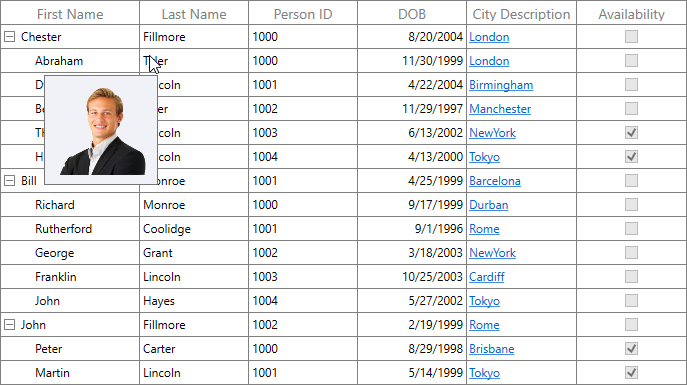
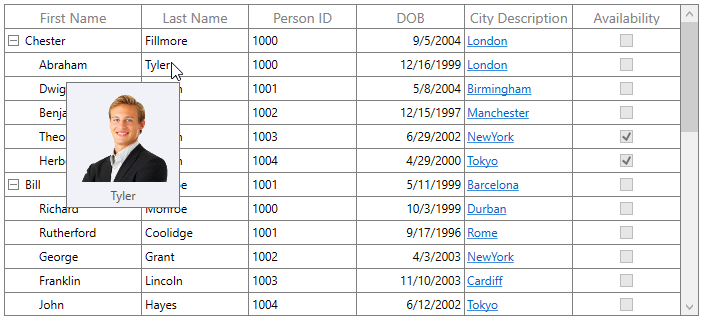
WPF-39899_Tooltip changes are included.

diff --git a/wpf/SfTreeGrid/Interactive-Feature.md b/wpf/SfTreeGrid/Interactive-Feature.md
@@ -10,7 +10,12 @@ documentation: ug
 # Interactive Feature
 
 ## ToolTip
-ToolTip provides the support to show the pop-up window that displays the information when the mouse hovers in cells of SfTreeGrid. You can enable the ToolTip for the TreeGridCell by setting the [SfTreeGrid.ShowToolTip](https://help.syncfusion.com/cr/cref_files/wpf/sfdatagrid/Syncfusion.SfGrid.WPF~Syncfusion.UI.Xaml.Grid.GridColumnBase~ShowToolTipProperty.html) as `true`.
+
+SfTreeGrid provides support to display tooltip for record and header cells when hover the cells.
+
+### Record Cell ToopTip
+
+You can enable or disable default tooltip for record cells by setting [SfTreeGrid.ShowToolTip](https://help.syncfusion.com/cr/cref_files/wpf/sfdatagrid/Syncfusion.SfGrid.WPF~Syncfusion.UI.Xaml.Grid.GridColumnBase~ShowToolTipProperty.html) as `true`.
 
 {% tabs %}
 {% highlight xaml %}
@@ -50,6 +55,8 @@ N> It takes higher priority than SfTreeGrid.ShowToolTip.
 
 ![](Interactive-Features_images/InteractiveFeatures_img1.png)
 
+### Header ToolTip
+
 You can enable the ToolTip for the header cell by setting the [TreeGridColumn.ShowHeaderToolTip](https://help.syncfusion.com/cr/cref_files/wpf/sfdatagrid/Syncfusion.SfGrid.WPF~Syncfusion.UI.Xaml.Grid.GridColumnBase~ShowHeaderToolTip.html) as `true`.
 
 {% tabs %}
@@ -69,9 +76,11 @@ this.treeGrid.Columns["FirstName"].ShowHeaderToolTip = true;
 
 ![](Interactive-Features_images/InteractiveFeatures_img2.png)
 
-## ToolTip Customization
+## Custom ToopTip
 
-You can change the appearance of the ToolTip by customizing the style with TargetType as `ToolTip`.
+### Cell ToopTip
+
+You can change the appearance of the tooltip by customizing the style with TargetType as `ToolTip`. When hover the record cell to show the tooltip by setting `ShowToolTip` as `true`.
 
 {% tabs %}
 {% highlight xaml %}
@@ -93,11 +102,37 @@ You can change the appearance of the ToolTip by customizing the style with Targe
 
 ![](Interactive-Features_images/InteractiveFeatures_img3.png)
 
-You can customize the template of ToolTip by using the [TreeGridColumn.ToolTipTemplate](http://help.syncfusion.com/cr/cref_files/wpf/sfdatagrid/Syncfusion.SfGrid.WPF~Syncfusion.UI.Xaml.Grid.GridColumnBase~ToolTipTemplate.html) and [TreeGridColumn.ToolTipTemplateSelector](http://help.syncfusion.com/cr/cref_files/wpf/sfdatagrid/Syncfusion.SfGrid.WPF~Syncfusion.UI.Xaml.Grid.GridColumnBase~ToolTipTemplateSelector.html) properties.
+### Header ToolTip
 
-## Customize the ToolTip using ToolTipTemplate
+You can change the appearance of the tooltip by customizing the style with TargetType as `ToolTip`. When hover the header cell to show the tooltip by setting `ShowHeaderToolTip` as `true`.
 
-You can customize the appearance of the ToolTip for particular column by setting `TreeGridColumn.ToolTipTemplate`. And you can also customize the appearance of header ToolTip for particular column by [TreeGridColumn.HeaderToolTipTemplate](http://help.syncfusion.com/cr/cref_files/wpf/sfdatagrid/Syncfusion.SfGrid.WPF~Syncfusion.UI.Xaml.Grid.GridColumnBase~HeaderToolTipTemplate.html) property.
+{% tabs %}
+{% highlight xaml %}
+
+<Window.Resources>        
+    <Style TargetType="ToolTip">
+        <Setter Property="BorderThickness" Value="1,1,1,1" />
+        <Setter Property="BorderBrush" Value="Red" />
+        <Setter Property="Background" Value="LightGreen" />
+    </Style>
+</Window.Resources>
+
+<syncfusion:SfTreeGrid.Columns>
+    <syncfusion:TreeGridTextColumn HeaderText="First Name" MappingName="FirstName" ShowHeaderToolTip="True" />
+</syncfusion:SfTreeGrid.Columns>
+	
+{% endhighlight %}
+{% endtabs %}
+
+![](Interactive-Features_images/InteractiveFeatures_img7.png)
+
+## ToolTip Customization
+
+You can customize the template of ToolTip by using the [TreeGridColumn.ToolTipTemplate](http://help.syncfusion.com/cr/cref_files/wpf/sfdatagrid/Syncfusion.SfGrid.WPF~Syncfusion.UI.Xaml.Grid.GridColumnBase~ToolTipTemplate.html) and [TreeGridColumn.ToolTipTemplateSelector](http://help.syncfusion.com/cr/cref_files/wpf/sfdatagrid/Syncfusion.SfGrid.WPF~Syncfusion.UI.Xaml.Grid.GridColumnBase~ToolTipTemplateSelector.html) properties. 
+
+### Customize the ToolTip using ToolTipTemplate
+
+You can customize the appearance of the ToolTip for particular column by setting `TreeGridColumn.ToolTipTemplate`. And you can also customize the appearance of header ToolTip for particular column by [TreeGridColumn.HeaderToolTipTemplate](http://help.syncfusion.com/cr/cref_files/wpf/sfdatagrid/Syncfusion.SfGrid.WPF~Syncfusion.UI.Xaml.Grid.GridColumnBase~HeaderToolTipTemplate.html) property. ToolTipTemplate receives underlying data object as DataContext.
 
 {% tabs %}
 {% highlight xaml %}
@@ -105,7 +140,14 @@ You can customize the appearance of the ToolTip for particular column by setting
 <Window.Resources>
     <local:StringToImageConverter x:Key="ImageConverter" />
     <DataTemplate x:Key="TemplateToolTip">
-        <Image Height="100" Width="100" Source="{Binding LastName,Converter={StaticResource ImageConverter}}" />
+        <Grid>
+            <Grid.RowDefinitions>
+                <RowDefinition Height="*"/>
+                <RowDefinition Height="*"/>
+            </Grid.RowDefinitions>
+            <Image Height="100" Width="100" Source="{Binding LastName,Converter={StaticResource ImageConverter}}" />
+            <TextBlock Grid.Row="1" Text="{Binding LastName}" HorizontalAlignment="Center"/>
+        </Grid>
     </DataTemplate>
 </Window.Resources>
 
@@ -136,11 +178,11 @@ public class StringToImageConverter : IValueConverter
 
 ![](Interactive-Features_images/InteractiveFeatures_img4.png)
 
-You can get the sample from [here](http://www.syncfusion.com/downloads/support/directtrac/general/ze/ToolTipTemplateDemo-389089223.zip).
+You can get the sample from [here](http://www.syncfusion.com/downloads/support/directtrac/general/ze/ToolTipTemplateDemo-1415306479.zip).
 
 ## Customize the ToolTip with ToolTipTemplateSelector
 
-The different ToolTip template can be loaded in a same column conditionally based on data by setting `TreeGridColumn.ToolTipTemplateSelector`.
+The different ToolTip template can be loaded in a same column conditionally based on data by setting `TreeGridColumn.ToolTipTemplateSelector`. ToolTipTemplateSelector receives underlying data object as DataContext.
 
 {% tabs %}
 {% highlight xaml %}
@@ -224,3 +266,133 @@ The below image refers the AlternateTemplate which is applied through ToolTipTem
 ![](Interactive-Features_images/InteractiveFeatures_img6.png)
 
 You can get the sample from [here](http://www.syncfusion.com/downloads/support/directtrac/general/ze/ToolTipTemplateSelectorDemo1292485348.zip).
+
+## Events
+
+### ToolTipOpening Event
+
+`ToolTipOpening` event occurs when any cell tooltip of an element is open.
+
+{% tabs %}
+{% highlight xaml %}
+<syncfusion:SfTreeGrid Name="treeGrid"  
+                        AutoExpandMode="RootNodesExpanded" 
+                        ToolTipOpening="TreeGrid_ToolTipOpening"
+                        AutoGenerateColumns="False"
+                        ChildPropertyName="Children"
+                        ColumnSizer="Star"
+                        ExpanderColumn="Id"
+                        ItemsSource="{Binding PersonDetails}">
+{% endhighlight %}
+{% highlight c# %}
+this.treeGrid.ToolTipOpening += TreeGrid_ToolTipOpening;
+
+private void TreeGrid_ToolTipOpening(object sender, System.Windows.Controls.ToolTipEventArgs e)
+{
+            
+}
+{% endhighlight %}
+{% endtabs %}
+
+### ToolTipClosing Event
+
+`ToolTipClosing` event occurs just before any cell tooltip on the element is closed.
+
+{% tabs %}
+{% highlight xaml %}
+<syncfusion:SfTreeGrid Name="treeGrid"  
+                        AutoExpandMode="RootNodesExpanded" 
+                        ToolTipClosing="TreeGrid_ToolTipClosing"
+                        AutoGenerateColumns="False"
+                        ChildPropertyName="Children"
+                        ColumnSizer="Star"
+                        ExpanderColumn="Id"
+                        ItemsSource="{Binding PersonDetails}">
+{% endhighlight %}
+{% highlight c# %}
+this.treeGrid.ToolTipClosing += TreeGrid_ToolTipClosing;
+
+private void TreeGrid_ToolTipClosing(object sender, System.Windows.Controls.ToolTipEventArgs e)
+{
+          
+}
+{% endhighlight %}
+{% endtabs %}
+
+### CellToolTipOpening Event
+
+[CellToolTipOpening](https://help.syncfusion.com/cr/cref_files/wpf/sfdatagrid/Syncfusion.SfGrid.WPF~Syncfusion.UI.Xaml.TreeGrid.SfTreeGrid~CellToolTipOpening_EV.html) event occurs when hover the cell in the SfTreeGrid.
+
+<ul>
+<li> Column: Gets the Column of hovered cell in the SfTreeGrid.</li>
+<li> Node: Gets the Node of hovered cell.</li>
+<li> Record: Gets the data context of hovered cell.</li>
+<li> RowColumnIndex: Gets the Row,Column index of hovered cell.</li>
+<li> ToolTip: Gets the tooltip of hovered cells</li>
+</ul>
+
+{% tabs %}
+{% highlight xaml %}
+<syncfusion:SfTreeGrid Name="treeGrid"  
+                        AutoExpandMode="RootNodesExpanded" 
+                        CellToolTipOpening="TreeGrid_CellToolTipOpening"
+                        AutoGenerateColumns="False"
+                        ChildPropertyName="Children"
+                        ColumnSizer="Star"
+                        ExpanderColumn="Id"
+                        ItemsSource="{Binding PersonDetails}">
+{% endhighlight %}
+{% highlight c# %}
+this.treeGrid.CellToolTipOpening += TreeGrid_CellToolTipOpening;
+
+private void TreeGrid_CellToolTipOpening(object sender, Syncfusion.UI.Xaml.TreeGrid.TreeGridCellToolTipOpeningEventArgs e)
+{
+           
+}
+{% endhighlight %}
+{% endtabs %}
+
+## Showing ToolTip for Empty Cells
+
+To show the tooltip for empty cells by handling the loaded event of the content loading into the tooltip template.  In the below code, the loaded event of the TextBlock is handled and the parent Tooltip, is found by using the FindAncestor method. When the TextBlock.Text is empty, then set the ToolTip.IsOpen to true and set the text for TextBlock to show the tooltip for cell.
+
+{% tabs %}
+{% highlight xaml %}
+
+<syncfusion:SfTreeGrid.Columns>
+    <syncfusion:TreeGridTextColumn MappingName="Id" />
+    <syncfusion:TreeGridTextColumn HeaderText="First Name" MappingName="FirstName" ShowToolTip="True">
+        <syncfusion:TreeGridTextColumn.ToolTipTemplate>
+            <DataTemplate>
+                <local:ToolTipExt Text="{Binding Path=FirstName}" />
+            </DataTemplate>
+        </syncfusion:TreeGridTextColumn.ToolTipTemplate>
+    </syncfusion:TreeGridTextColumn>    
+</syncfusion:SfTreeGrid.Columns>
+
+{% endhighlight %}
+{% highlight c# %}
+using Microsoft.VisualStudio.PlatformUI;
+
+public class ToolTipExt : TextBlock
+{
+    public ToolTipExt()
+    {
+        this.Loaded += TextBlockExt_Loaded;
+    }
+    void TextBlockExt_Loaded(object sender, RoutedEventArgs e)
+    {
+        if (!string.IsNullOrEmpty(this.Text))
+            return;
+        var tooltip = this.FindAncestor<ToolTip>();
+        if (IsVisible)
+        {
+            this.Text = "Cell value as empty";
+            tooltip.IsOpen = true;                
+        }
+    }
+}
+{% endhighlight %}
+{% endtabs %}
+
+![](Interactive-Features_images/InteractiveFeatures_img8.png)
